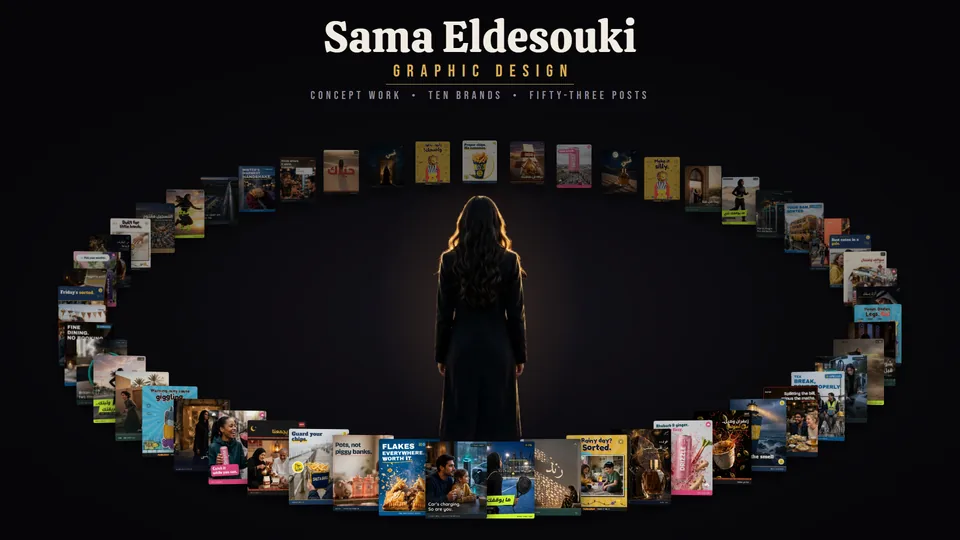
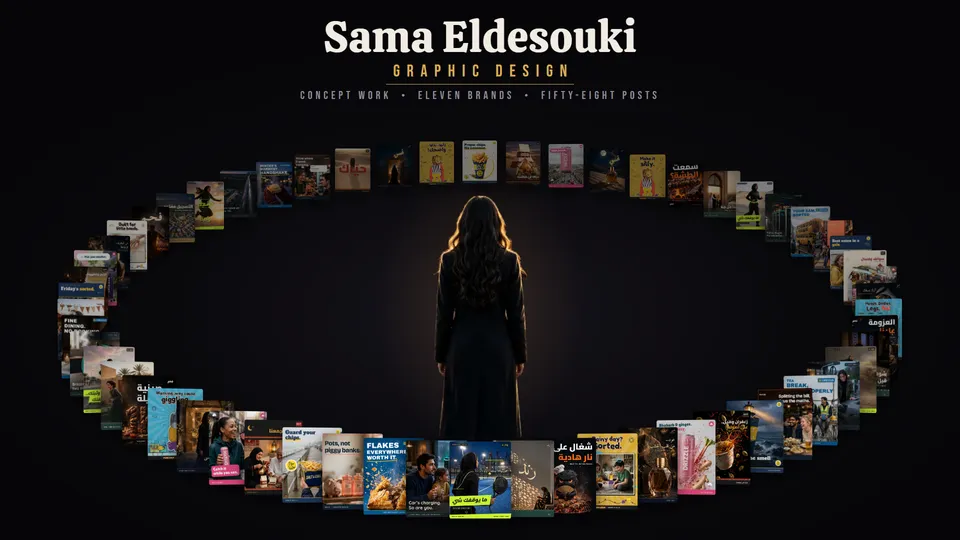
Add Fahm to the design page; eleven-brand hero and share image

diff --git a/design/index.html b/design/index.html
@@ -4,18 +4,18 @@
   <meta charset="utf-8">
   <meta name="viewport" content="width=device-width, initial-scale=1">
   <title>Sama Eldesouki · Graphic design</title>
-  <meta name="description" content="Brand identities by Sama Eldesouki: 10 concept brands from Yorkshire, London, Riyadh and Dubai, each built from one idea, with logo, palette, packaging and social posts in English and Arabic.">
+  <meta name="description" content="Brand identities by Sama Eldesouki: 11 concept brands from Yorkshire, London, Riyadh, Cairo and Dubai, each built from one idea, with logo, palette, packaging and social posts in English and Arabic.">
   <meta property="og:title" content="Graphic design · Sama Eldesouki">
-  <meta property="og:description" content="10 concept brands, one idea each: Salt & Gull, Drizzle, Naseeg, Ghasaq, Wathba, Rand, Plug & Brew, Muddlezoo, Greggs and Monzo.">
+  <meta property="og:description" content="11 concept brands, one idea each: Salt & Gull, Drizzle, Naseeg, Ghasaq, Wathba, Rand, Plug & Brew, Muddlezoo, Fahm, Greggs and Monzo.">
   <meta property="og:url" content="https://sayrz1.github.io/design/">
   <meta property="og:type" content="website">
   <meta property="og:image" content="https://sayrz1.github.io/assets/og/design.jpg">
   <meta property="og:image:width" content="1200">
   <meta property="og:image:height" content="630">
-  <meta property="og:image:alt" content="Sama Eldesouki, graphic design: a ring of social posts from ten brands around a figure in the dark.">
+  <meta property="og:image:alt" content="Sama Eldesouki, graphic design: a ring of social posts from eleven brands around a figure in the dark.">
   <meta name="twitter:card" content="summary_large_image">
   <meta name="twitter:title" content="Graphic design · Sama Eldesouki">
-  <meta name="twitter:description" content="10 concept brands, one idea each: Salt & Gull, Drizzle, Naseeg, Ghasaq, Wathba, Rand, Plug & Brew, Muddlezoo, Greggs and Monzo.">
+  <meta name="twitter:description" content="11 concept brands, one idea each: Salt & Gull, Drizzle, Naseeg, Ghasaq, Wathba, Rand, Plug & Brew, Muddlezoo, Fahm, Greggs and Monzo.">
   <meta name="twitter:image" content="https://sayrz1.github.io/assets/og/design.jpg">
   <meta name="theme-color" content="#060508">
   <link rel="canonical" href="https://sayrz1.github.io/design/">
@@ -44,8 +44,8 @@
         <img src="../assets/design/hero.webp" srcset="../assets/design/hero-960.webp 960w, ../assets/design/hero.webp 1920w" sizes="100vw" width="1920" height="1080" alt="A ring of social posts from the brands circling a long-haired figure, seen from behind in the dark." fetchpriority="high">
       </figure>
       <div class="hero-copy">
-        <h1 id="title">Ten brands.<br>One idea each.</h1>
-        <p class="hero-sub">Identities for made-up brands, from a Yorkshire chippy to a box of wooden toys, plus unofficial campaigns for Greggs and Monzo. In English and Arabic.</p>
+        <h1 id="title">Eleven brands.<br>One idea each.</h1>
+        <p class="hero-sub">Identities for made-up brands, from a Yorkshire chippy to a Riyadh charcoal grill, plus unofficial campaigns for Greggs and Monzo. In English and Arabic.</p>
       </div>
     </section>
 
@@ -53,7 +53,7 @@
       <div class="overview-head">
         <h2 id="brands-title">The brands</h2>
         <div class="overview-tools">
-          <p class="filter-count" aria-live="polite">10 brands</p>
+          <p class="filter-count" aria-live="polite">11 brands</p>
           <label class="filter-pick"><span class="filter-show">Show</span><select class="filter-select" aria-label="Show brands"><option value="all">All brands</option><optgroup label="Sector"><option value="food">Food &amp; drink</option><option value="beauty">Beauty</option><option value="fashion">Fashion</option><option value="property">Property</option><option value="motoring">Motoring</option><option value="toys">Toys</option><option value="finance">Finance</option></optgroup><optgroup label="Language"><option value="en">English</option><option value="ar">Arabic</option></optgroup></select><i class="ph ph-caret-down" aria-hidden="true"></i></label>
         </div>
       </div>
@@ -130,6 +130,15 @@
               </span>
             </a>
           </li>
+          <li class="card" data-sector="food" data-lang="ar">
+            <a href="#fahm" style="--c:#FF6A1A">
+              <img src="../assets/design/fahm/cover-960.webp" width="960" height="540" alt="" loading="lazy" decoding="async">
+              <span class="card-body">
+                <span class="card-name f-bebas f-wide">Fahm</span> <span class="card-ar f-cairo" lang="ar" dir="rtl">فحم</span>
+                <span class="card-meta">Charcoal grill · Riyadh &amp; Cairo</span>
+              </span>
+            </a>
+          </li>
           <li class="card" data-sector="food" data-lang="en">
             <a href="#greggs" style="--c:#FAB622">
               <img src="../assets/design/greggs/cover-960.webp" width="960" height="540" alt="" loading="lazy" decoding="async">
@@ -160,7 +169,7 @@
       <section class="brand" id="salt-gull" data-brand="salt-gull" data-meta="#1B3557" data-sector="food" data-lang="en" aria-labelledby="salt-gull-title">
         <nav class="b-nav" aria-label="Salt & Gull">
           <a class="back" href="#brands"><i class="ph ph-arrow-left" aria-hidden="true"></i>All brands</a>
-          <span class="b-count">1 of 10</span>
+          <span class="b-count">1 of 11</span>
         </nav>
         <div class="b-intro">
           <div class="b-text">
@@ -242,7 +251,7 @@
       <section class="brand" id="drizzle" data-brand="drizzle" data-meta="#12464F" data-sector="food" data-lang="en" aria-labelledby="drizzle-title">
         <nav class="b-nav" aria-label="Drizzle">
           <a class="back" href="#brands"><i class="ph ph-arrow-left" aria-hidden="true"></i>All brands</a>
-          <span class="b-count">2 of 10</span>
+          <span class="b-count">2 of 11</span>
         </nav>
         <div class="b-intro">
           <div class="b-text">
@@ -324,7 +333,7 @@
       <section class="brand" id="naseeg" data-brand="naseeg" data-meta="#9E2A2B" data-sector="food" data-lang="ar" aria-labelledby="naseeg-title">
         <nav class="b-nav" aria-label="Naseeg">
           <a class="back" href="#brands"><i class="ph ph-arrow-left" aria-hidden="true"></i>All brands</a>
-          <span class="b-count">3 of 10</span>
+          <span class="b-count">3 of 11</span>
         </nav>
         <div class="b-intro">
           <div class="b-text">
@@ -409,7 +418,7 @@
       <section class="brand" id="ghasaq" data-brand="ghasaq" data-meta="#0E1424" data-sector="beauty" data-lang="ar" aria-labelledby="ghasaq-title">
         <nav class="b-nav" aria-label="Ghasaq">
           <a class="back" href="#brands"><i class="ph ph-arrow-left" aria-hidden="true"></i>All brands</a>
-          <span class="b-count">4 of 10</span>
+          <span class="b-count">4 of 11</span>
         </nav>
         <div class="b-intro">
           <div class="b-text">
@@ -494,7 +503,7 @@
       <section class="brand" id="wathba" data-brand="wathba" data-meta="#141414" data-sector="fashion" data-lang="ar" aria-labelledby="wathba-title">
         <nav class="b-nav" aria-label="Wathba">
           <a class="back" href="#brands"><i class="ph ph-arrow-left" aria-hidden="true"></i>All brands</a>
-          <span class="b-count">5 of 10</span>
+          <span class="b-count">5 of 11</span>
         </nav>
         <div class="b-intro">
           <div class="b-text">
@@ -576,7 +585,7 @@
       <section class="brand" id="rand" data-brand="rand" data-meta="#23403A" data-sector="property" data-lang="ar" aria-labelledby="rand-title">
         <nav class="b-nav" aria-label="Rand">
           <a class="back" href="#brands"><i class="ph ph-arrow-left" aria-hidden="true"></i>All brands</a>
-          <span class="b-count">6 of 10</span>
+          <span class="b-count">6 of 11</span>
         </nav>
         <div class="b-intro">
           <div class="b-text">
@@ -640,7 +649,7 @@
       <section class="brand" id="plug-brew" data-brand="plug-brew" data-meta="#1E2327" data-sector="motoring" data-lang="en" aria-labelledby="plug-brew-title">
         <nav class="b-nav" aria-label="Plug & Brew">
           <a class="back" href="#brands"><i class="ph ph-arrow-left" aria-hidden="true"></i>All brands</a>
-          <span class="b-count">7 of 10</span>
+          <span class="b-count">7 of 11</span>
         </nav>
         <div class="b-intro">
           <div class="b-text">
@@ -704,7 +713,7 @@
       <section class="brand" id="muddlezoo" data-brand="muddlezoo" data-meta="#FFC93C" data-sector="toys" data-lang="en" aria-labelledby="muddlezoo-title">
         <nav class="b-nav" aria-label="Muddlezoo">
           <a class="back" href="#brands"><i class="ph ph-arrow-left" aria-hidden="true"></i>All brands</a>
-          <span class="b-count">8 of 10</span>
+          <span class="b-count">8 of 11</span>
         </nav>
         <div class="b-intro">
           <div class="b-text">
@@ -809,13 +818,95 @@
 
         <nav class="b-pager" aria-label="More brands">
           <a class="pager-link" href="#plug-brew" rel="prev"><span class="pager-label"><i class="ph ph-arrow-left" aria-hidden="true"></i>Previous</span><span class="pager-name">Plug &amp; Brew</span></a>
+          <a class="pager-link pager-next" href="#fahm" rel="next"><span class="pager-label">Next<i class="ph ph-arrow-right" aria-hidden="true"></i></span><span class="pager-name">Fahm</span></a>
+        </nav>
+      </section>
+      <section class="brand" id="fahm" data-brand="fahm" data-meta="#141110" data-sector="food" data-lang="ar" aria-labelledby="fahm-title">
+        <nav class="b-nav" aria-label="Fahm">
+          <a class="back" href="#brands"><i class="ph ph-arrow-left" aria-hidden="true"></i>All brands</a>
+          <span class="b-count">9 of 11</span>
+        </nav>
+        <div class="b-intro">
+          <div class="b-text">
+          <header class="b-head">
+            <h2 id="fahm-title" class="b-name f-bebas f-wide">Fahm</h2><span class="b-ar f-cairo" lang="ar" dir="rtl">فحم</span>
+            <p class="b-where">Charcoal grill, Riyadh &amp; Cairo</p>
+            <p class="b-line"><span lang="ar" dir="rtl">سمعت الطشة؟</span> Hear the sizzle?</p>
+          </header>
+          <div class="b-story">
+            <p><b>The problem.</b> Grill restaurants all reach for the same things: cartoon flames, crossed skewers and a red-and-yellow sign. Fahm means charcoal, so the brand had to feel like the coals themselves, dark and glowing and too hot to ignore.</p>
+            <p><b>The idea.</b> The name is already burning. The dot on the ف is a live coal throwing off sparks, and the bowls of the letters glow from inside. Every post keeps it: charcoal black, ember orange and sparks rising off the grill.</p>
+          </div>
+          </div>
+          <figure class="b-cover">
+            <img src="../assets/design/fahm/cover.webp" srcset="../assets/design/fahm/cover-960.webp 960w, ../assets/design/fahm/cover.webp 1920w" sizes="(max-width: 1500px) 100vw, 1440px" width="1920" height="1080" alt="Fahm cover: Charcoal grill, Riyadh & Cairo." loading="lazy" decoding="async">
+          </figure>
+        </div>
+
+        <div class="b-tabs-row">
+          <div class="b-tabs" role="tablist" aria-label="Fahm work"><button class="tab" type="button" role="tab" id="fahm-tab-posts" aria-controls="fahm-posts" aria-selected="true">Posts <span class="tab-n">5</span></button><button class="tab" type="button" role="tab" id="fahm-tab-identity" aria-controls="fahm-identity" aria-selected="false" tabindex="-1">Identity</button><button class="tab" type="button" role="tab" id="fahm-tab-process" aria-controls="fahm-process" aria-selected="false" tabindex="-1">How it was built</button></div>
+          <div class="posts-nav">
+            <button class="icon-btn" type="button" data-dir="-1" aria-label="Previous Fahm posts"><i class="ph ph-arrow-left" aria-hidden="true"></i></button>
+            <button class="icon-btn" type="button" data-dir="1" aria-label="Next Fahm posts"><i class="ph ph-arrow-right" aria-hidden="true"></i></button>
+          </div>
+        </div>
+
+        <div class="b-panel" role="tabpanel" id="fahm-posts" aria-labelledby="fahm-tab-posts">
+          <h3 class="b-h3 panel-h">The posts</h3>
+          <ul class="strip" aria-label="Fahm social posts">
+              <li><button class="post" type="button" data-full="../assets/design/fahm/post-1.webp" data-caption="Fahm · post 1 of 5">
+                <img src="../assets/design/fahm/post-1.webp" width="864" height="1080" alt="“سمعت الطشة؟”, hear the sizzle? Kebab skewers and lamb chops spit over open flames." loading="lazy" decoding="async">
+              </button></li>
+              <li><button class="post" type="button" data-full="../assets/design/fahm/post-2.webp" data-caption="Fahm · post 2 of 5">
+                <img src="../assets/design/fahm/post-2.webp" width="864" height="1080" alt="“العزومة علينا”, tonight’s on us. Friends laugh at a rooftop table as a hand holds out a loaded grill platter." loading="lazy" decoding="async">
+              </button></li>
+              <li><button class="post" type="button" data-full="../assets/design/fahm/post-3.webp" data-caption="Fahm · post 3 of 5">
+                <img src="../assets/design/fahm/post-3.webp" width="864" height="1080" alt="“شغال على نار هادية”, slow fire, serious flavour. A grumpy lump of charcoal in a chef’s hat fans the coals under the skewers." loading="lazy" decoding="async">
+              </button></li>
+              <li><button class="post" type="button" data-full="../assets/design/fahm/post-4.webp" data-caption="Fahm · post 4 of 5">
+                <img src="../assets/design/fahm/post-4.webp" width="864" height="1080" alt="“صينية العيلة”, the family platter. “1KG” spelled out in grilled kebab and chicken, 129 SAR." loading="lazy" decoding="async">
+              </button></li>
+              <li><button class="post" type="button" data-full="../assets/design/fahm/post-5.webp" data-caption="Fahm · post 5 of 5">
+                <img src="../assets/design/fahm/post-5.webp" width="864" height="1080" alt="“فحم” glowing in the smoke above a grill master working a long charcoal grill." loading="lazy" decoding="async">
+              </button></li>
+          </ul>
+        </div>
+
+        <div class="b-panel" role="tabpanel" id="fahm-identity" aria-labelledby="fahm-tab-identity">
+          <h3 class="b-h3 panel-h">Identity</h3>
+          <div class="b-system">
+            <div>
+              <h4 class="b-h4">Palette</h4>
+              <ul class="swatches"><li><span class="sw" style="--c:#141110"></span><span class="sw-name">Charcoal</span><span class="sw-hex">#141110</span></li><li><span class="sw" style="--c:#FF6A1A"></span><span class="sw-name">Ember</span><span class="sw-hex">#FF6A1A</span></li><li><span class="sw" style="--c:#8A8580"></span><span class="sw-name">Smoke</span><span class="sw-hex">#8A8580</span></li><li><span class="sw" style="--c:#F4EEE6"></span><span class="sw-name">Cream</span><span class="sw-hex">#F4EEE6</span></li></ul>
+            </div>
+            <div>
+              <h4 class="b-h4">Lettering</h4>
+              <ul class="letters"><li><span class="lt-sample f-cairo"><span lang="ar" dir="rtl">سمعت الطشة؟</span></span><span class="lt-name">Cairo Black</span></li><li><span class="lt-sample f-bebas">Hear the sizzle?</span><span class="lt-name">Bebas Neue</span></li></ul>
+            </div>
+          </div>
+          <figure class="b-wide">
+            <img src="../assets/design/fahm/identity-board.webp" srcset="../assets/design/fahm/identity-board-960.webp 960w, ../assets/design/fahm/identity-board.webp 1920w" sizes="(max-width: 1500px) 100vw, 1440px" width="1920" height="1080" alt="Fahm identity board: logo, palette, lettering, packaging, shopfront and tone of voice." loading="lazy" decoding="async">
+            <figcaption>Logo, palette, lettering, pack, shopfront and voice on one board.</figcaption>
+          </figure>
+        </div>
+
+        <div class="b-panel" role="tabpanel" id="fahm-process" aria-labelledby="fahm-tab-process">
+          <h3 class="b-h3 panel-h">How it was built</h3>
+          <figure class="b-wide">
+            <img src="../assets/design/fahm/logo-final.webp" srcset="../assets/design/fahm/logo-final-960.webp 960w, ../assets/design/fahm/logo-final.webp 1920w" sizes="(max-width: 1500px) 100vw, 1440px" width="1920" height="1080" alt="The final Fahm Coal Bowl logo package: colour, cream, white and one-colour versions, Arabic and English only lockups, icons and app icons." loading="lazy" decoding="async">
+            <figcaption>The final Coal Bowl logo in ten versions, from full colour to a one-colour mark and app icons, tested at 200px.</figcaption>
+          </figure>
+        </div>
+
+        <nav class="b-pager" aria-label="More brands">
+          <a class="pager-link" href="#muddlezoo" rel="prev"><span class="pager-label"><i class="ph ph-arrow-left" aria-hidden="true"></i>Previous</span><span class="pager-name">Muddlezoo</span></a>
           <a class="pager-link pager-next" href="#greggs" rel="next"><span class="pager-label">Next<i class="ph ph-arrow-right" aria-hidden="true"></i></span><span class="pager-name">Greggs</span></a>
         </nav>
       </section>
       <section class="brand" id="greggs" data-brand="greggs" data-meta="#003C6C" data-sector="food" data-lang="en" aria-labelledby="greggs-title">
         <nav class="b-nav" aria-label="Greggs">
           <a class="back" href="#brands"><i class="ph ph-arrow-left" aria-hidden="true"></i>All brands</a>
-          <span class="b-count">9 of 10</span>
+          <span class="b-count">10 of 11</span>
         </nav>
         <div class="b-intro">
           <div class="b-text">
@@ -872,14 +963,14 @@
         </div>
 
         <nav class="b-pager" aria-label="More brands">
-          <a class="pager-link" href="#muddlezoo" rel="prev"><span class="pager-label"><i class="ph ph-arrow-left" aria-hidden="true"></i>Previous</span><span class="pager-name">Muddlezoo</span></a>
+          <a class="pager-link" href="#fahm" rel="prev"><span class="pager-label"><i class="ph ph-arrow-left" aria-hidden="true"></i>Previous</span><span class="pager-name">Fahm</span></a>
           <a class="pager-link pager-next" href="#monzo" rel="next"><span class="pager-label">Next<i class="ph ph-arrow-right" aria-hidden="true"></i></span><span class="pager-name">Monzo</span></a>
         </nav>
       </section>
       <section class="brand" id="monzo" data-brand="monzo" data-meta="#0F1A2B" data-sector="finance" data-lang="en" aria-labelledby="monzo-title">
         <nav class="b-nav" aria-label="Monzo">
           <a class="back" href="#brands"><i class="ph ph-arrow-left" aria-hidden="true"></i>All brands</a>
-          <span class="b-count">10 of 10</span>
+          <span class="b-count">11 of 11</span>
         </nav>
         <div class="b-intro">
           <div class="b-text">
@@ -955,7 +1046,7 @@
   </main>
 
   <footer class="foot">
-    <p>© 2026 Sama Eldesouki. Salt &amp; Gull, Drizzle, Naseeg, Ghasaq, Wathba, Rand, Plug &amp; Brew and Muddlezoo are concepts made up for this portfolio. The Greggs and Monzo campaigns are unofficial concept work, not affiliated with or endorsed by either company. I also make <a href="../motion/">films</a>, <a href="../websites/">websites</a>, <a href="../#work">software</a> and <a href="../copy/">copy</a>.</p>
+    <p>© 2026 Sama Eldesouki. Salt &amp; Gull, Drizzle, Naseeg, Ghasaq, Wathba, Rand, Plug &amp; Brew, Muddlezoo and Fahm are concepts made up for this portfolio. The Greggs and Monzo campaigns are unofficial concept work, not affiliated with or endorsed by either company. I also make <a href="../motion/">films</a>, <a href="../websites/">websites</a>, <a href="../#work">software</a> and <a href="../copy/">copy</a>.</p>
   </footer>
 
   <dialog class="viewer" id="viewer" aria-label="Post viewer">

diff --git a/design/design.css b/design/design.css
@@ -243,6 +243,7 @@ body[data-brand="plug-brew"] { --bg: #1E2327; --ink: #EFE7DA; --accent: #00B3A5;
 .f-fredoka { font-family: "Fredoka", sans-serif; font-weight: 700; letter-spacing: -0.01em; }
 .f-patrick { font-family: "Patrick Hand", cursive; font-weight: 400; }
 body[data-brand="muddlezoo"] { --bg: #FFC93C; --ink: #1B1B1B; --accent: #1B1B1B; --on-accent: #FFC93C; }
+body[data-brand="fahm"] { --bg: #141110; --ink: #F4EEE6; --accent: #FF6A1A; --on-accent: #141110; }
 
 /* ---------- Distilled layout: less scroll ---------- */
 /* Hero: copy left, ring image right */
